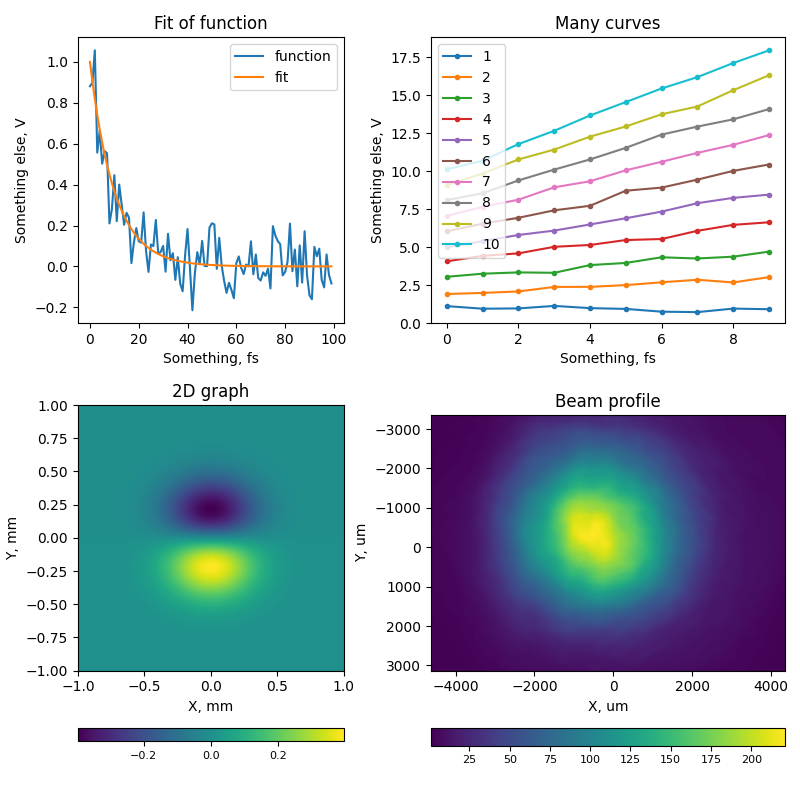
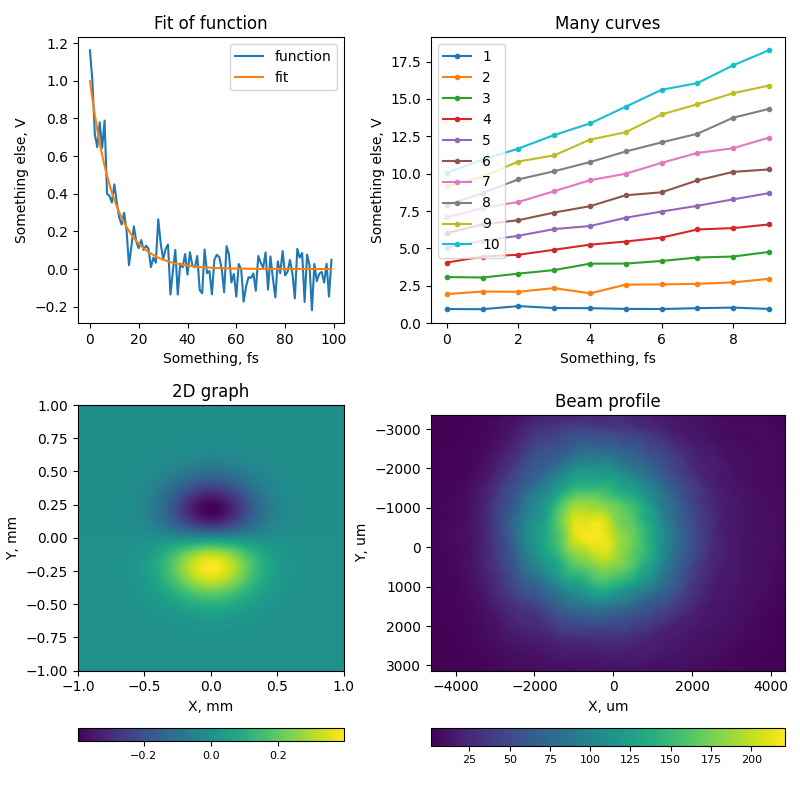
Example update for pytest

diff --git a/examples/example_beam_profiler.py b/examples/example_beam_profiler.py
@@ -1,3 +1,4 @@
+import sys
 import scilightcon
 from scilightcon.utils._fixes import _open_binary
 from scilightcon.fitting import fit_beam_profile_2d
@@ -10,23 +11,22 @@ matrix = pickle.load(filepath)['matrix']
 
 result = fit_beam_profile_2d (matrix, method = 'gauss', options = {'decimation' : 2})
 
-plt.figure()
-plt.imshow(matrix, cmap='viridis', origin='lower')
-plt.clim([0, None])
-plt.xlabel('x')
-plt.ylabel('y')
-plt.title('Gaussian beam profile fit')
+if 'pytest' not in sys.modules:
+    plt.figure()
+    plt.imshow(matrix, cmap='viridis', origin='lower')
+    plt.clim([0, None])
+    plt.xlabel('x')
+    plt.ylabel('y')
+    plt.title('Gaussian beam profile fit')
 
-metrics = ['mean_x', 'mean_y', 'phi', 'sigma_x', 'sigma_y', 'sigma_xy', 'sigma_p', 'sigma_s', 'ellipticity']
+    metrics = ['mean_x', 'mean_y', 'phi', 'sigma_x', 'sigma_y', 'sigma_xy', 'sigma_p', 'sigma_s', 'ellipticity']
 
-plt.text(0, np.shape(matrix)[0], '\n'.join([f'{metric} = {result[metric]:.3f}' for metric in metrics]), fontdict={'color': 'white'}, va='top')
-plt.plot(result['mean_x'], result['mean_y'], '.k')
-plt.plot([result['mean_x'] - result['sigma_p'] * np.cos(result['phi']), result['mean_x'] + result['sigma_p'] * np.cos(result['phi'])],
-    [result['mean_y'] - result['sigma_p'] * np.sin(result['phi']), result['mean_y'] + result['sigma_p'] * np.sin(result['phi'])],
-    '-k')
+    plt.text(0, np.shape(matrix)[0], '\n'.join([f'{metric} = {result[metric]:.3f}' for metric in metrics]), fontdict={'color': 'white'}, va='top')
+    plt.plot(result['mean_x'], result['mean_y'], '.k')
+    plt.plot([result['mean_x'] - result['sigma_p'] * np.cos(result['phi']), result['mean_x'] + result['sigma_p'] * np.cos(result['phi'])],
+        [result['mean_y'] - result['sigma_p'] * np.sin(result['phi']), result['mean_y'] + result['sigma_p'] * np.sin(result['phi'])],
+        '-k')
 
-plt.plot([result['mean_x'] - result['sigma_s'] * np.cos(result['phi']+np.pi/2.0), result['mean_x'] + result['sigma_s'] * np.cos(result['phi']+np.pi/2.0)],
-    [result['mean_y'] - result['sigma_s'] * np.sin(result['phi']+np.pi/2.0), result['mean_y'] + result['sigma_s'] * np.sin(result['phi']+np.pi/2.0)],
-    '-k')
-
-plt.savefig('./doc/docs/img/example_beam_profiler.png')
+    plt.plot([result['mean_x'] - result['sigma_s'] * np.cos(result['phi']+np.pi/2.0), result['mean_x'] + result['sigma_s'] * np.cos(result['phi']+np.pi/2.0)],
+        [result['mean_y'] - result['sigma_s'] * np.sin(result['phi']+np.pi/2.0), result['mean_y'] + result['sigma_s'] * np.sin(result['phi']+np.pi/2.0)],
+        '-k')

diff --git a/examples/example_analyze_s2s_data.py b/examples/example_analyze_s2s_data.py
@@ -1,12 +1,13 @@
 #!/usr/bin/env python
 # -*- coding: utf-8 -*-
-#==========================================================================
-# 
-#--------------------------------------------------------------------------
-# Copyright (c) 2021 Light Conversion, UAB
-# All rights reserved.
-# www.lightcon.com
-#==========================================================================
+"""Examples: analyze shot-2-shot data for PHAROS
+
+Part of scilightcon.
+
+Copyright 2021-2026 Light Conversion
+Contact: support@lightcon.com
+"""
+import sys
 import numpy as np
 import scilightcon
 from scilightcon.utils import load_s2s_data
@@ -59,12 +60,12 @@ if s2s_data.version == 1:
         plt.legend()
         plt.ylim(sml_ylim)
         
-    if s2s_data.nmrsd_data_y is not None:
+    if s2s_data.nrmsd_data_y is not None:
         plt.figure('NRMSD of ' + s2s_data.device_serial_number)
         plt.clf()
         plt.suptitle('NRMSD of {:}, {:.1f} kHz, {:.0f} nm'.format(s2s_data.device_serial_number, s2s_data.repetition_rate, s2s_data.wavelength))
         
-        plt.plot((np.array(s2s_data.nmrsd_data_x) - s2s_data.nmrsd_data_x[0]) * 60, s2s_data.nmrsd_data_y)
+        plt.plot((np.array(s2s_data.nrmsd_data_x) - s2s_data.nrmsd_data_x[0]) * 60, s2s_data.nrmsd_data_y)
         plt.xlabel('Time, s')
         plt.ylabel('Normalize root-mean-square deviation, %')
         plt.ylim(nrmsd_ylim)
@@ -87,7 +88,7 @@ if s2s_data.version == 1:
         for i, outlier in enumerate(s2s_data.outliers):
             ax = plt.subplot(n, 1, i+1)            
                                     
-            plt.plot(outlier.voltage, label = 'at {:.0f} s'.format((outlier.time - s2s_data.nmrsd_data_x[0]) * 60))
+            plt.plot(outlier.voltage, label = 'at {:.0f} s'.format((outlier.time - s2s_data.nrmsd_data_x[0]) * 60))
             plt.plot([0, len(outlier.voltage)], [s2s_data.sml_mean, s2s_data.sml_mean])            
             plt.ylim([vmin, vmax])
                         
@@ -118,4 +119,5 @@ if s2s_data.version == 1:
                 ax.set_xticklabels([])
         ax.set_xlabel('Frequency, kHz')
 
-plt.show()
+if 'pytest' not in sys.modules:
+    plt.show()

diff --git a/examples/example_interpolate_and_multiply.py b/examples/example_interpolate_and_multiply.py
@@ -1,5 +1,5 @@
-from scilightcon.datasets import load_csv_data
-from scilightcon.datasets import load_EKSMA_OPTICS_mirror_reflections
+import sys
+from scilightcon.datasets import load_csv_data, load_eksma_spectrum
 from scilightcon.utils import interpolate_and_multiply
 import matplotlib.pyplot as plt
 import numpy as np
@@ -8,7 +8,7 @@ led_data, header = load_csv_data('White_LED_spectrum.csv')
 led_x = led_data[:,0]
 led_y = led_data[:,1]
 
-mirror_data, headers = load_EKSMA_OPTICS_mirror_reflections('Au')
+mirror_data, headers = load_eksma_spectrum('Au')
 mirror_x = mirror_data[:,0]
 mirror_y = mirror_data[:,1]
 
@@ -16,19 +16,17 @@ reflected_data = interpolate_and_multiply((led_x, led_y), (mirror_x, mirror_y))
 reflected_x = reflected_data[0]
 reflected_y = reflected_data[1]
 
-plt.figure()
+if 'pytest' not in sys.modules:
+    plt.figure()
 
-plt.plot(led_x, led_y/np.max(led_y), label = 'White LED spectrum before mirror')
-plt.plot(mirror_x, mirror_y/np.max(mirror_y), label = 'Au mirror reflection')
-plt.plot(reflected_x, reflected_y/np.max(reflected_y), label="White LED spectrum after mirror")
+    plt.plot(led_x, led_y/np.max(led_y), label = 'White LED spectrum before mirror')
+    plt.plot(mirror_x, mirror_y/np.max(mirror_y), label = 'Au mirror reflection')
+    plt.plot(reflected_x, reflected_y/np.max(reflected_y), label="White LED spectrum after mirror")
 
-plt.xlabel(header[0])
-plt.ylabel(header[1])
-plt.xlim(200, 1000)
-plt.ylim(0, None)
-plt.legend()
-plt.grid()
-
-# plt.savefig('./doc/docs/img/example_interpolate_and_multiply.png')
-
-plt.show()
+    plt.xlabel(header[0])
+    plt.ylabel(header[1])
+    plt.xlim(200, 1000)
+    plt.ylim(0, None)
+    plt.legend()
+    plt.grid()
+    plt.show()

diff --git a/examples/example_utils_multiply.py b/examples/example_utils_multiply.py
@@ -1,11 +1,9 @@
+import sys
 from scilightcon.datasets import load_csv_data
-from scilightcon.datasets import load_EKSMA_OPTICS_mirror_reflections
+from scilightcon.datasets import load_eksma_spectrum
 from scilightcon.utils import interpolate_and_multiply
 import matplotlib.pyplot as plt
 import numpy as np
-import csv
-
-
 
 D1, header = load_csv_data('White_LED_spectrum.csv')
 x1 = D1[:,0]
@@ -16,26 +14,27 @@ D1 = (x1, y1)
 # x2 = np.arange(200.0, 1000.0, 50.0)
 # y2 = np.exp( - (x2 - 600.0) ** 2 / 10000)
 
-D2, headers = load_EKSMA_OPTICS_mirror_reflections('Au')
+D2, headers = load_eksma_spectrum('Au')
 x2 = D2[:,0]
 y2 = D2[:,1]
 D2 = (x2, y2)
 
 D3 = interpolate_and_multiply(D1, D2)
 
-fig = plt.figure('MSD-815')
-plt.clf()
+if 'pytest' in sys.modules:
+    fig = plt.figure('MSD-815')
+    plt.clf()
 
-plt.plot(D1[0], D1[1]/np.max(D1[1]), label = 'White LED spectrum (D1)')
-plt.plot(D2[0], D2[1]/np.max(D2[1]), label = 'Au mirror reflection (D2) ')
-plt.plot(D3[0], D3[1]/np.max(D3[1]), label=r"D1$\cdot$D2")
+    plt.plot(D1[0], D1[1]/np.max(D1[1]), label = 'White LED spectrum (D1)')
+    plt.plot(D2[0], D2[1]/np.max(D2[1]), label = 'Au mirror reflection (D2) ')
+    plt.plot(D3[0], D3[1]/np.max(D3[1]), label=r"D1$\cdot$D2")
 
 
-plt.xlabel(header[0])
-plt.ylabel(header[1])
-plt.xlim(200, 1250)
-plt.legend()
-plt.grid()
-plt.savefig('interpolate_and_multiply_plot.png')
-plt.show()
-print(D3)
+    plt.xlabel(header[0])
+    plt.ylabel(header[1])
+    plt.xlim(200, 1250)
+    plt.legend()
+    plt.grid()
+    plt.savefig('interpolate_and_multiply_plot.png')
+    plt.show()
+    print(D3)

diff --git a/examples/example_thorlabs.py b/examples/example_thorlabs.py
@@ -1,12 +1,14 @@
-from scilightcon.datasets import load_THORLABS_filter_transmissions
+import sys
+from scilightcon.datasets import load_thorlabs_spectrum
 import matplotlib.pyplot as plt
 import numpy as np
 
-plt.figure('reflectance')
-plt.clf()
+if 'pytest' in sys.modules:
+    plt.figure('reflectance')
+    plt.clf()
 
 for material in ["DMLP425", "DMLP550", "FES0500", 'FES0800', "FGUV11"]:
-    data, headers = load_THORLABS_filter_transmissions(material)
+    data, headers = load_thorlabs_spectrum(material, 't')
 
     x_values = data[:,0]
     y_values = data[:,1]
@@ -25,11 +27,13 @@ for material in ["DMLP425", "DMLP550", "FES0500", 'FES0800', "FGUV11"]:
     y_values_smooth[-2] = (filtered_y[-1] + filtered_y[-2])/2
     y_values_smooth[0] = (y_values[0] + y_values[1])/2  
     y_values_smooth[1] = (y_values[0] + y_values[1])/2
-    plt.plot(filtered_x, y_values_smooth, label = material)
+    if 'pytest' in sys.modules:
+        plt.plot(filtered_x, y_values_smooth, label = material)
 
-plt.xlabel(headers[0])
-plt.ylabel(headers[1])
-plt.legend()
-plt.grid()
-plt.savefig('load_thorlabs_transmission.png')
-plt.show()
+if 'pytest' in sys.modules:
+    plt.xlabel(headers[0])
+    plt.ylabel(headers[1])
+    plt.legend()
+    plt.grid()
+    plt.savefig('load_thorlabs_transmission.png')
+    plt.show()

diff --git a/examples/second_derivative_sellmeier.py b/examples/second_derivative_sellmeier.py
@@ -1,8 +1,9 @@
-import sympy as sp
-from sympy import symbols
-import numpy as np
 
-wl, C0, C1, C2, C3, C4, C5, C6, C7, C8, C9, C10, C11, C12, C13, C14, C15, C16 = symbols('wl, C[0], C[1], C[2], C[3], C[4], C[5], C[6], C[7], C[8], C[9], C[10], C[11], C[12], C[13], C[14], C[15], C[16]')
+# import sympy as sp
+# from sympy import symbols
+# import numpy as np
+
+# wl, C0, C1, C2, C3, C4, C5, C6, C7, C8, C9, C10, C11, C12, C13, C14, C15, C16 = symbols('wl, C[0], C[1], C[2], C[3], C[4], C[5], C[6], C[7], C[8], C[9], C[10], C[11], C[12], C[13], C[14], C[15], C[16]')
 
 #     # formula 1 
 #     eq1 = sp.sqrt(1+C0+C1/(1-(C2/wl)**2)+C3/(1-(C4/wl)**2)+C5/(1-(C6/wl)**2)+C7/(1-(C8/wl)**2)+C9/(1-(C10/wl)**2)+C11/(1-(C12/wl)**2)+C13/(1-(C14/wl)**2)+C15/(1-(C16/wl)**2))

diff --git a/examples/example_atmospheric_data.py b/examples/example_atmospheric_data.py
@@ -1,15 +1,19 @@
+import sys
 from scilightcon.datasets import load_atmospheric_data
 import matplotlib.pyplot as plt
 
-plt.figure('reflectance')
-plt.clf()
-
 data, headers = load_atmospheric_data()
 data_file_name = 'atmosphere.csv'
-plt.plot(data[:,0], data[:,1])
 
-plt.xlabel(headers[0])
-plt.ylabel(headers[1])
-plt.grid()
-plt.savefig('load_atmospheric_data.png')
-plt.show()
+
+if 'pytest' not in sys.modules:
+    plt.figure('reflectance')
+    plt.clf()
+
+    plt.plot(data[:,0], data[:,1])
+
+    plt.xlabel(headers[0])
+    plt.ylabel(headers[1])
+    plt.grid()
+    plt.savefig('load_atmospheric_data.png')
+    plt.show()

diff --git a/examples/csv_reader.py b/examples/csv_reader.py
@@ -1,7 +1,17 @@
+#!/usr/bin/env python
+# -*- coding: utf-8 -*-
+"""Example: load Argon line spectra
+
+Part of scilightcon.
+
+Copyright 2023-2026 Light Conversion
+Contact: support@lightcon.com
+"""
 import csv
 import numpy as np
+from importlib.resources import files
 
-csv_filepath = r'C:\Code\lightcon-scipack\scilightcon\datasets\data\Ar_lines.csv'
+csv_filepath = str(files('scilightcon').joinpath("datasets/data/Ar_lines.csv"))
 
 with open(csv_filepath, 'r') as csv_file:
     data_file = csv.reader(csv_file)

diff --git a/examples/example_load_gzipped_csv_data.py b/examples/example_load_gzipped_csv_data.py
@@ -1,7 +1,8 @@
-from scilightcon.datasets import _load_zipped_csv_data
+from scilightcon.datasets import load_zipped_csv_data
+from importlib.resources import files
 
-data_file_name = r'C:\Code\lightcon-scipack\scilightcon\datasets\data\data_test_detect_peaks.csv.gz'
-data, header = _load_zipped_csv_data(data_file_name)
+data_path = str(files('scilightcon').joinpath("datasets/data/data_test_detect_peaks.csv.gz"))
+data, header = load_zipped_csv_data(data_path)
 
 
 # Code for compressing a file with gzip

diff --git a/examples/example_load_eksma_optics_spectra.py b/examples/example_load_eksma_optics_spectra.py
@@ -1,3 +1,12 @@
+#!/usr/bin/env python
+# -*- coding: utf-8 -*-
+"""Example: load EKSMA Optics mirror spectra.
+
+Part of scilightcon.
+
+Copyright 2023-2026 Light Conversion
+Contact: support@lightcon.com
+"""
 from scilightcon.datasets import load_eksma_spectrum
 import matplotlib.pyplot as plt
 
